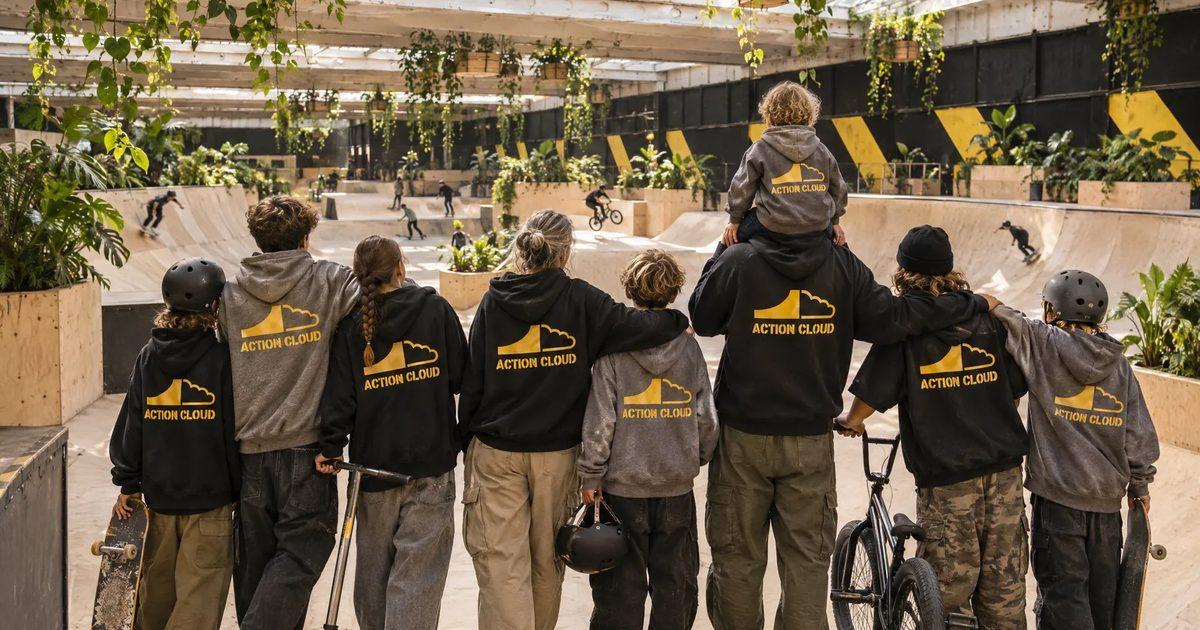
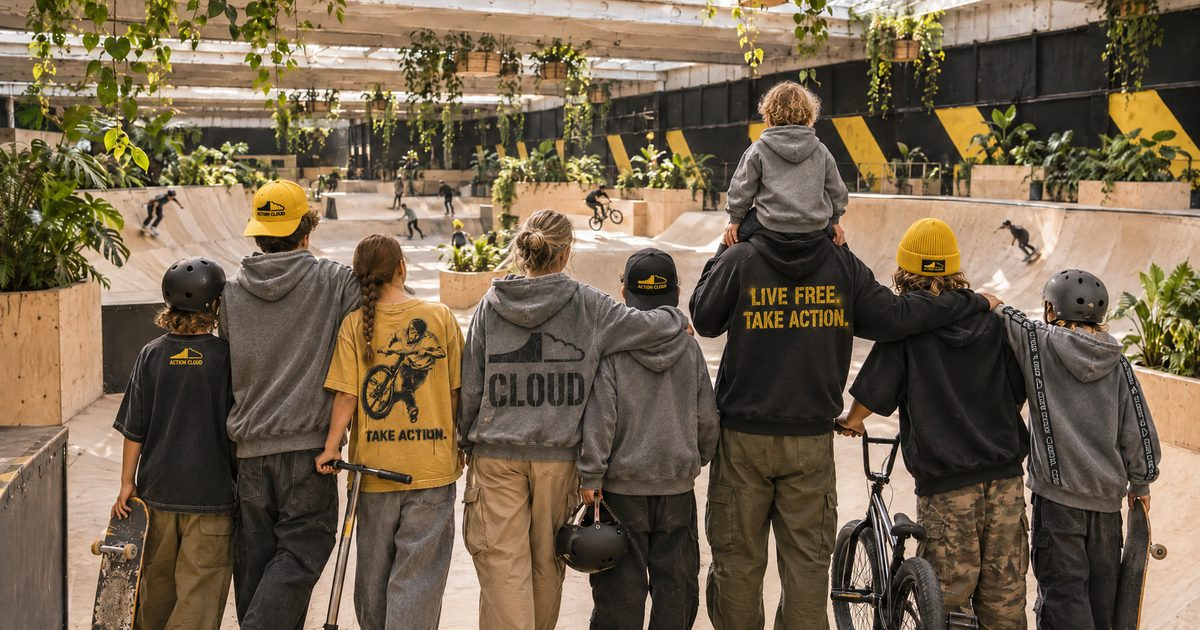
Hero picture: the group wears different pieces from the shop
Three different hoodies, two tees, two caps and a beanie, in the shop's own designs, instead of
the same hoodie on everyone. The link-preview picture is cut from the new picture.

Claude-Session: https://claude.ai/code/session_018dMiRcN2zXaZ779CdyjL6b

diff --git a/en/index.html b/en/index.html
@@ -40,7 +40,7 @@
 <main id="main">
 
 <section class="slide hero" id="top">
-  <img src="../assets/img/concept-crew.webp" srcset="../assets/img/s/concept-crew.webp 1000w, ../assets/img/concept-crew.webp 1600w" sizes="100vw" width="1600" height="1195" alt="Concept image: kids, teenagers and parents in Action Cloud hoodies, seen from behind, looking out over a park full of ramps and plants" fetchpriority="high">
+  <img src="../assets/img/concept-crew.webp" srcset="../assets/img/s/concept-crew.webp 1000w, ../assets/img/concept-crew.webp 1600w" sizes="100vw" width="1600" height="1195" alt="Concept image: kids, teenagers and parents in Action Cloud hoodies, tees, caps and a beanie, seen from behind, looking out over a park full of ramps and plants" fetchpriority="high">
   <div class="wrap hero-top">
     <p class="kicker">We are planning the biggest indoor action sports park in Romania<a class="star" href="#despre-marime" aria-label="See the note on the comparison">*</a></p>
     <h1>A place of their own.<br>Let's build it.</h1>

diff --git a/index.html b/index.html
@@ -40,7 +40,7 @@
 <main id="main">
 
 <section class="slide hero" id="top">
-  <img src="assets/img/concept-crew.webp" srcset="assets/img/s/concept-crew.webp 1000w, assets/img/concept-crew.webp 1600w" sizes="100vw" width="1600" height="1195" alt="Imagine concept: copii, adolescenți și părinți în hanorace Action Cloud, văzuți din spate, privind parcul plin de rampe și plante" fetchpriority="high">
+  <img src="assets/img/concept-crew.webp" srcset="assets/img/s/concept-crew.webp 1000w, assets/img/concept-crew.webp 1600w" sizes="100vw" width="1600" height="1195" alt="Imagine concept: copii, adolescenți și părinți în hanorace, tricouri, șepci și o căciulă Action Cloud, văzuți din spate, privind parcul plin de rampe și plante" fetchpriority="high">
   <div class="wrap hero-top">
     <p class="kicker">Plănuim cel mai mare parc indoor de action sports din România<a class="star" href="#despre-marime" aria-label="Vezi nota despre comparație">*</a></p>
     <h1>Un loc al lor.<br>Hai să-l construim.</h1>

diff --git a/tools/build.py b/tools/build.py
@@ -370,8 +370,8 @@ CLAIM_NOTE = T("* După suprafața totală planificată a halei (aproximativ 6.0
 
 
 def s_hero(p):
-    img, _ = p.img("crew", p.t(T("Imagine concept: copii, adolescenți și părinți în hanorace Action Cloud, văzuți din spate, privind parcul plin de rampe și plante",
-                               "Concept image: kids, teenagers and parents in Action Cloud hoodies, seen from behind, looking out over a park full of ramps and plants")),
+    img, _ = p.img("crew", p.t(T("Imagine concept: copii, adolescenți și părinți în hanorace, tricouri, șepci și o căciulă Action Cloud, văzuți din spate, privind parcul plin de rampe și plante",
+                               "Concept image: kids, teenagers and parents in Action Cloud hoodies, tees, caps and a beanie, seen from behind, looking out over a park full of ramps and plants")),
                    eager=True, sizes="100vw")
     return f'''<section class="slide hero" id="top">
   {img}
